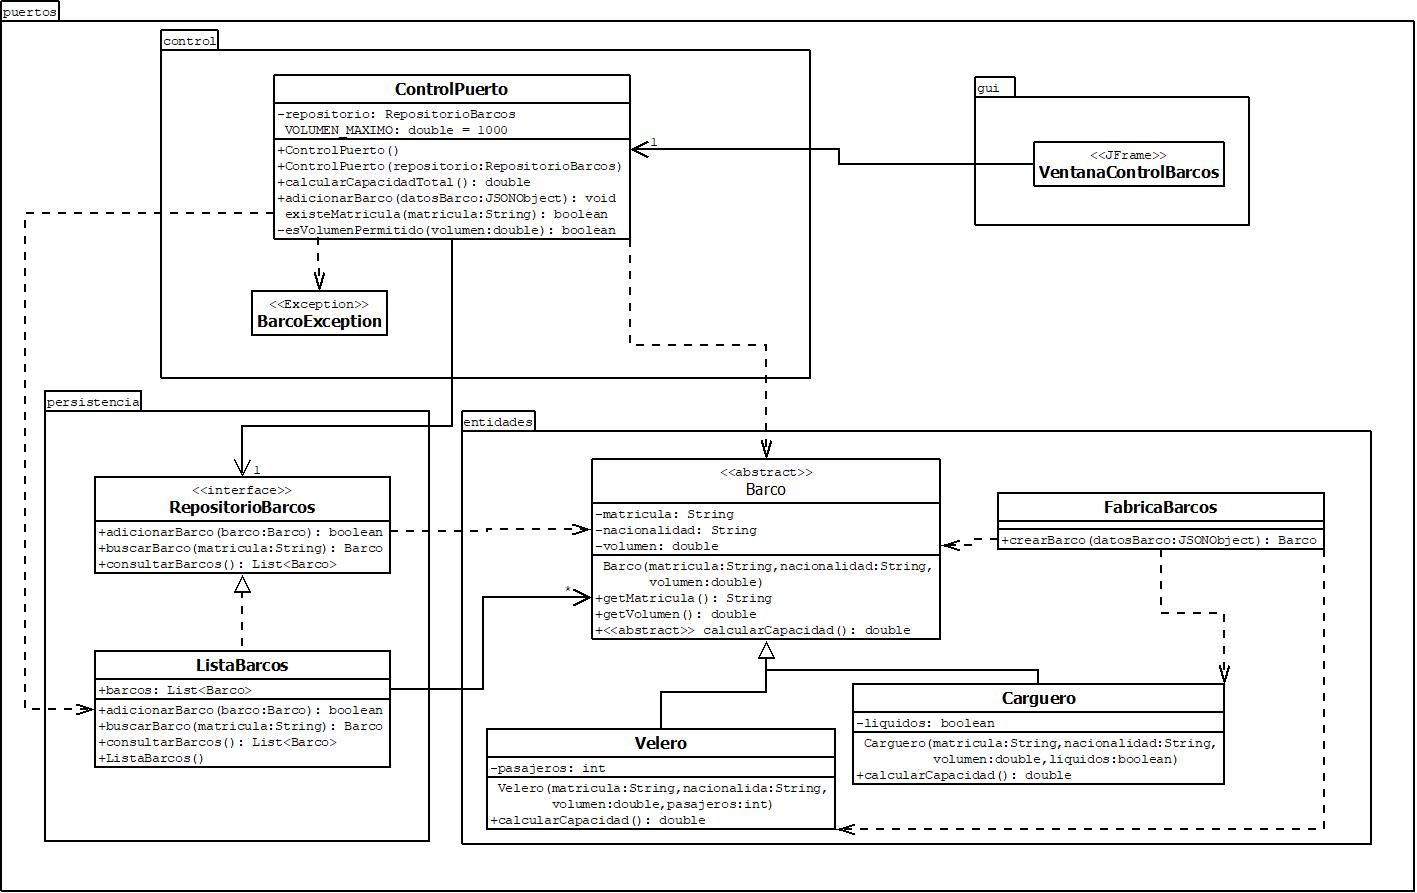
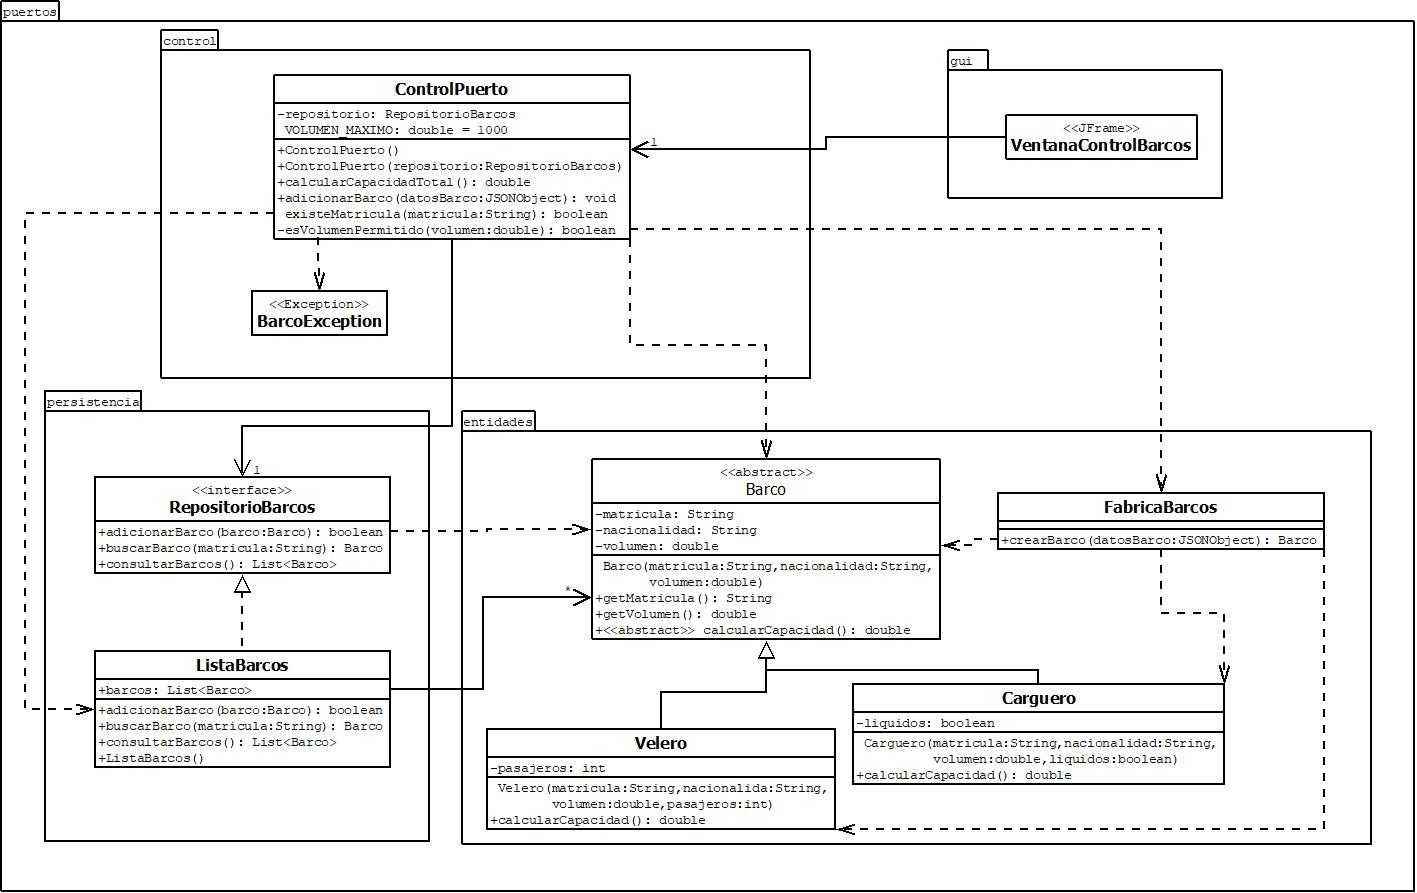
Revisar dependencia en diagrama y versión en Ventana

diff --git a/src/puertos/control/ControlPuerto.java b/src/puertos/control/ControlPuerto.java
@@ -47,7 +47,9 @@ public class ControlPuerto {
 	 * Se adiciona un barco al puerto, es decir, se registra su información y se
 	 * guarda.
 	 * 
-	 * @param datosBarco Objeto JSON con la información completa de un Barco
+	 * @param datosBarco Objeto JSON con la información completa de un Barco:
+	 * 			matricula (String), nacionalidad (String), volumen (double),
+	 * 			tipo (char), pasajeros (int), liquidos (boolean). 
 	 * @throws BarcoException cuando alguna regla del negocio no se cumple
 	 */
 	public void adicionarBarco(JSONObject datosBarco) throws BarcoException {

diff --git a/test/puertos/control/ControlAdicionarBarcoTest.java b/test/puertos/control/ControlAdicionarBarcoTest.java
@@ -40,9 +40,9 @@ class ControlAdicionarBarcoTest {
 		
 		assertFalse(control.existeMatricula("245"));
 		control.adicionarBarco(datosVelero);
-		assertTrue(control.existeMatricula("245"));
+		assertTrue(control.existeMatricula("245"));   //primera vez que se adiciona
 		assertThrows(Exception.class, 
-				() -> control.adicionarBarco(datosVelero));
+				() -> control.adicionarBarco(datosVelero)); 	// segunda vez (repetido)
 	}
 	
 	/**

diff --git a/src/puertos/gui/VentanaControlBarcos.java b/src/puertos/gui/VentanaControlBarcos.java
@@ -28,7 +28,7 @@ import puertos.control.ControlPuerto;
  * con barcos en un puerto, principalmente para pruebas.
  * Esta ventana se generó con el WindowsBuilder (plugin de Eclipse).
  * 
- * @version 1.5
+ * @version 2.0
  */
 public class VentanaControlBarcos extends JFrame {
 	
